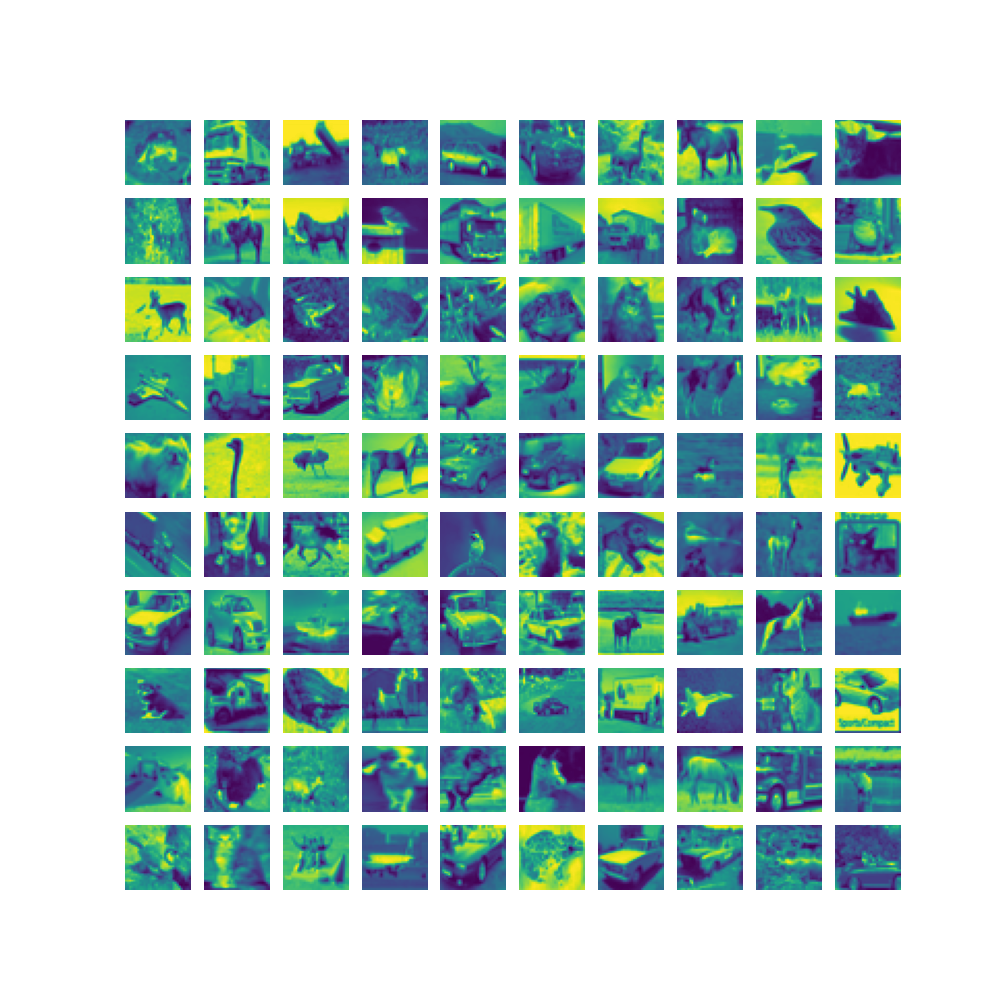
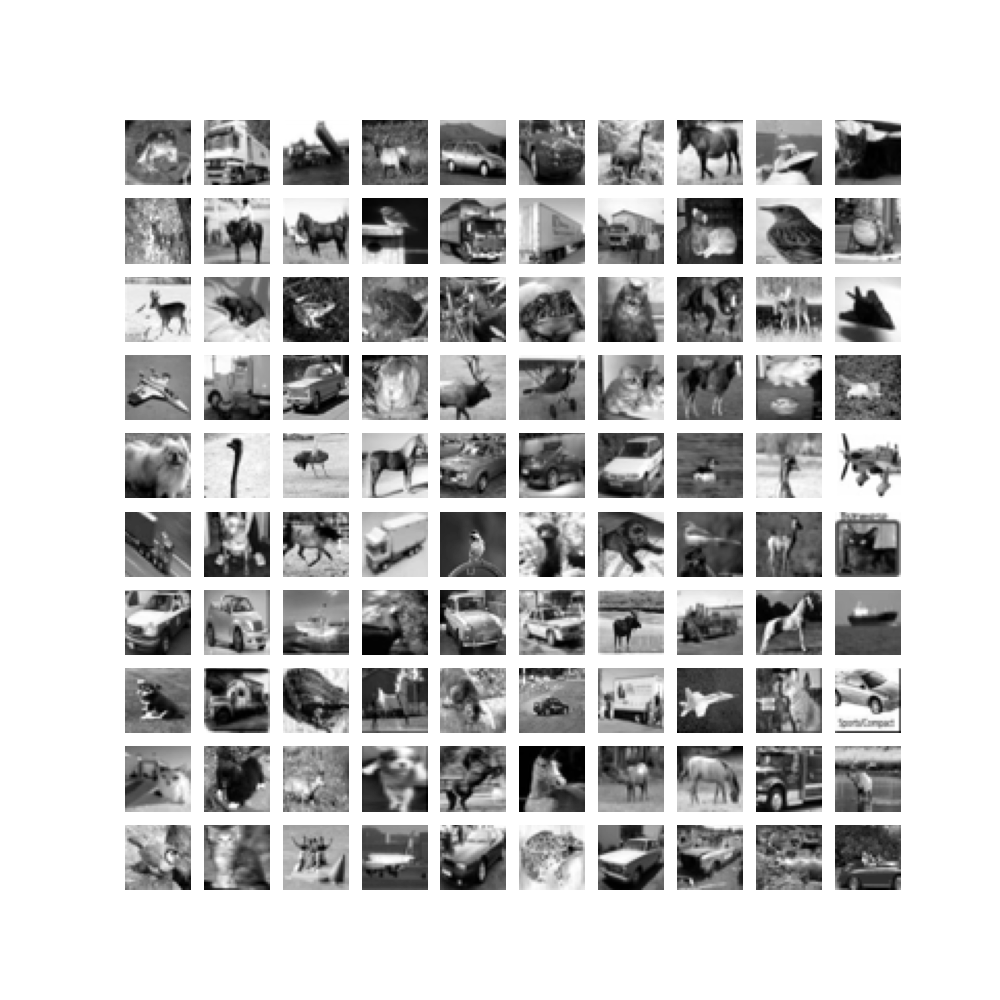
Fix grayscale image display in img_colorizer.py

diff --git a/ITP-359/homework/homework4/img_colorizer.py b/ITP-359/homework/homework4/img_colorizer.py
@@ -32,7 +32,8 @@ axis = axis.ravel()
 
 #plot noisy images
 for i in range(100):
-    axis[i].imshow(np.clip(X_train_grey_img[i], 0.0, 1.0))    
+    #cmap='gray' because the images are in grayscale and otherwise they would be in matplotlib's default colormap even though they are in grayscale
+    axis[i].imshow(np.clip(X_train_grey_img[i], 0.0, 1.0),  cmap='gray')    
     axis[i].axis('off')
 
 plt.savefig('100_noisy_img')
@@ -72,8 +73,12 @@ img2_array = [X_test[:10], X_test_grey_img[:10], grey_pred_images]
 fig, axes = plt.subplots(3, 10, figsize=(10, 3))
 for i, val in enumerate(img2_array):
     for j in range(10):
-        axes[i, j].imshow(val[j])
-        axes[i, j].axis('off')
+        if i == 1:
+            axes[i, j].imshow(val[j], cmap='gray')
+            axes[i, j].axis('off')
+        else:
+            axes[i, j].imshow(val[j])
+            axes[i, j].axis('off')
 
 plt.savefig('comparison3_img')
     
